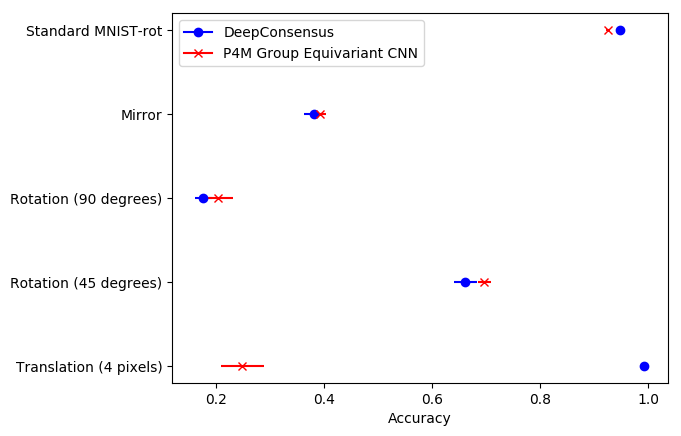
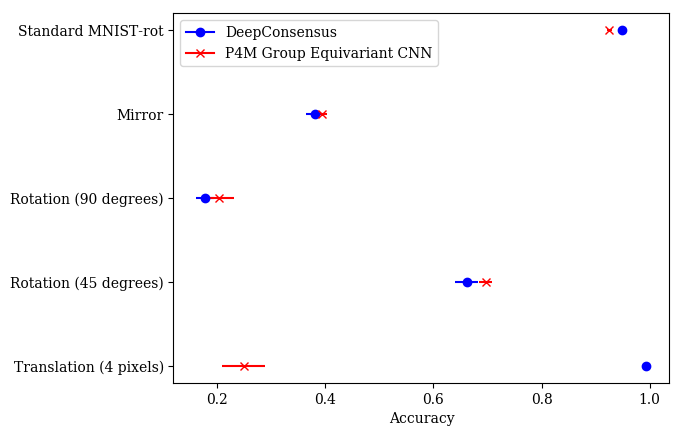
Added new batch experiments

diff --git a/src/layereval.py b/src/layereval.py
@@ -2,27 +2,33 @@ from matplotlib import pyplot
 
 # EMNIST, balanced
 
-TOT_NOISE = 
-MIU_NOISE = 
-STD_NOISE = 
+TOT_NOISE = 0.411
+MIU_NOISE = [0.029521275846723545, 0.2312233983439968, 0.39707445844690853, 0.38127658627134686]
+STD_NOISE = [0.018709274756350206, 0.04309041687002444, 0.04498906140328897, 0.046520283515651344]
+
+TOT_BLUR = 0.689
+MIU_BLUR = [0.15563829811884367, 0.4480851037388152, 0.6647340431809425, 0.6520744679456062]
+STD_BLUR = [0.0390682530346692, 0.04982915168657338, 0.04919060064523528, 0.0492885728229028]
 
 TOT_TRANS = 85.3
 MIU_TRANS = [0.5646276462902414, 0.7502127479999623, 0.7581382802826293, 0.7923935975166078]
 STD_TRANS = [0.050201408533735045, 0.042299634406440516, 0.04766462365641103, 0.042679180094108864]
 
-TOT_ROT = 
-MIU_ROT = 
-STD_ROT =
+TOT_ROT = 59.6
+MIU_ROT = [0.3034574480608423, 0.3511170224147908, 0.5578723372297084, 0.590797870875673]
+STD_ROT = [0.05005091935972197, 0.04783356872933732, 0.047670267178763104, 0.04590040166737066]
 
 TOT_MAG = 69.6
 MIU_MAG = [0.1557978729103157, 0.460797869620171, 0.5838297852810393, 0.6605851073214348]
 STD_MAG = [0.033843009868595876, 0.05439901612627148, 0.05312897181556344, 0.047540337537934914]
 
+pyplot.rcParams["font.family"] = "serif"
+
 pyplot.errorbar(NOISE)
 pyplot.errorbar(TRANS)
 pyplot.errorbar(MAG)
 
-pyplot.legend(["Gaussian noise (30 s)", "Translation (20 pixels)", "Magnification (1.5x)"])
+pyplot.legend(["Noise (30 std)", "Blur (1.2 std)", "Translation (20 pixels)", "Rotation (45 degrees)", "Magnification (1.5)"])
 pyplot.ylabel("Accuracy (%)")
 pyplot.xlabel("Layer")
 

diff --git a/src/batch-expts.py b/src/batch-expts.py
@@ -39,10 +39,10 @@ def main(gid, dset, start, end=None, **kwargs):
         do_tv("trans", 5, 20, 5)
         do_tv("mag", 1.25, 2.0, 0.25)
     elif gid == "2":
-        do_tv("rot", 15, 60, 15)
         do_tv("gauss", 15, 60, 15)
-    elif gid == "3":
         do_tv("sigma", 0.4, 1.6, 0.4)
+    elif gid == "3":
+        do_tv("rot", 15, 60, 15)
         do_tv("beta", 0.85, 0.4, -0.15)
     else:
         raise AssertionError

diff --git a/src/p4m_results.py b/src/p4m_results.py
@@ -20,6 +20,7 @@ import misc, statistics
 
 @misc.main
 def main():
+    pyplot.rcParams["font.family"] = "serif"
     for group, gc, dc in [
         ("Translation (4 pixels)", GC_TRANS4, DC_TRANS4),
         ("Rotation (45 degrees)", GC_ROTA45, DC_ROTA45),

diff --git a/src/quadrants.py b/src/quadrants.py
@@ -1,0 +1,8 @@
+import statistics
+
+DC = [0.9953999811410904, 0.9956999826431274, 0.9958999842405319]
+CN = [0.9954000043869019, 0.9951000046730042, 0.9947000050544739]
+for data in [DC, CN]:
+    print(statistics.mean(data), statistics.stdev(data))
+
+
